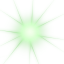
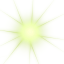
エフェクトっぽいの付けた

Changed region(s): [[0.2188, 0.3125, 0.6562, 0.75], [0.625, 0.375, 0.6562, 0.4062]]

diff --git a/main_scene_effect.h b/main_scene_effect.h
@@ -54,16 +54,22 @@ namespace ingame::main::effect
 	class Spirit : public Actor
 	{
 		static const useful::Vec2<int> imageSize;
+		inline static const double velMax = 20;
 		useful::Vec2<int> mSprOriginPt;
 		useful::Vec2<double> mPt;
 		useful::Vec2<double> mVel;
+		useful::Vec2<double> mAccel;
 		int mAnimTIme{};
+		int mLifeCount = 2;
+
 	public:
 		Spirit(SpiritController* parent);
 	protected:
 		void update() override;
 	private:
+		void createSplitAfterImage();
 		void updateSpirit(int deltaMilli);
+		void resetAccel();
 	};
 
 

diff --git a/sprite.h b/sprite.h
@@ -38,6 +38,7 @@ public:
     Sprite();
     Sprite(Graph* image);
     Sprite(Graph* image, int u, int v, int w, int h);
+    ~Sprite();
 
     static void Init();
     static void End();
@@ -90,7 +91,7 @@ public:
     static void Destroy(Sprite* spr);
     static void Destroy(Sprite* spr, bool isParentOnly);
 
-    static void DisposeAll();
+    static void DestroyAll();
 
 
     static void UpdateAll();
